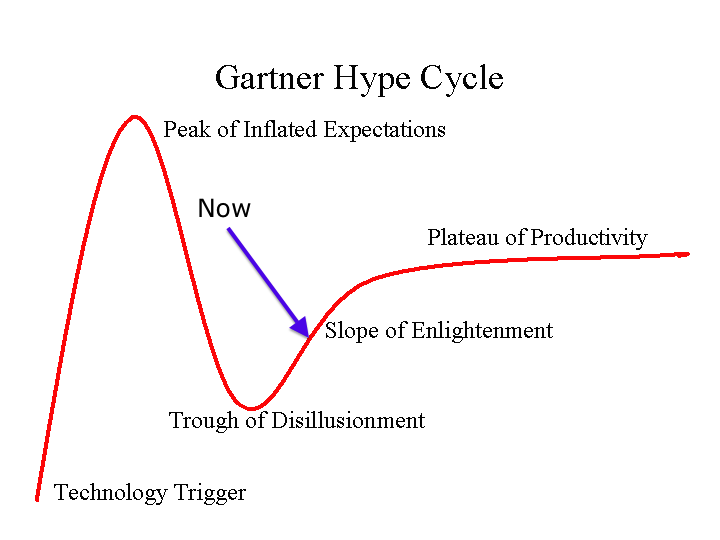
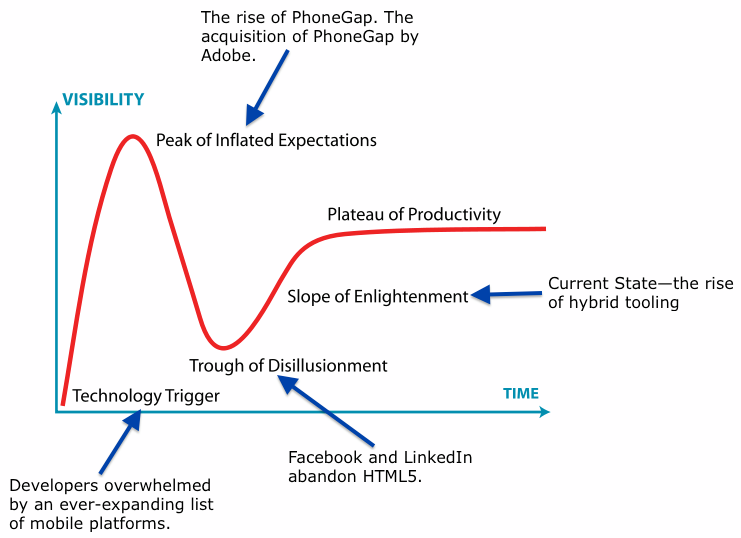
Saving off progress.

Changed region(s): [[0.0, 0.0, 1.0, 1.0], [0.3972, 0.4461, 0.4278, 0.4758]]

diff --git a/index.html b/index.html
@@ -36,6 +36,42 @@
 	<img src="img/telerik-logo.png" style="height: 100px;">
 </script></section>
 
+<section>
+	<blockquote><p>"The full Safari engine is inside of iPhone. And so, you can write amazing Web 2.0 and Ajax apps that look exactly and behave exactly like apps on the iPhone. And these apps can integrate perfectly with iPhone services."</p></blockquote>
+	<div class="fragment">
+		<p>Steve Jobs, 2007</p>
+		<a href="http://www.cultofmac.com/125180/steve-jobs-was-originally-dead-set-against-third-party-apps-for-the-iphone">(source)</a>
+	</div>
+</section>
+
+<section>
+	<h3>iOS 1 had no app store.</h3>
+</section>
+
+<section>
+	<h2>iOS 2 did. It worked out alright.</h2>
+	<img src="img/app-store-growth.png" style="max-height: 500px;">
+	<a href="http://www.businessinsider.com/chart-of-the-day-apple-app-store-revenues-2013-6">http://www.businessinsider.com/chart-of-the-day-apple-app-store-revenues-2013-6</a>
+</section>
+
+<section>
+	<img src="img/app-store-headlines.png">
+	<a href="http://www.apple.com/pr/library/2014/01/07App-Store-Sales-Top-10-Billion-in-2013.html?sr=hotnews.rss">http://www.apple.com/pr/library/2014/01/07App-Store-Sales-Top-10-Billion-in-2013.html?sr=hotnews.rss</a>
+</section>
+
+<section>
+	<h3 style="line-height: 1.2">In 2013, the iOS App Store revenue was higher than the GDP of 60 countries.</h3>
+</section>
+
+<section>
+	<h2>Others had similiar ideas</h2>
+	<img style="max-height: 200px;" src="img/google-play.jpg">
+	<img style="max-height: 200px;" src="img/blackberry-app-world.jpg">
+	<br>
+	<img style="max-height: 200px;" src="img/windows-store.jpg">
+	<img style="max-height: 200px;" src="img/amazon.jpg">
+</section>
+
 <section data-markdown><script type="text/template">
 	## Gartner Hype Cycle
 	<img src="img/gartner-hype-cycle.png" style="height: 400px;">
@@ -44,11 +80,24 @@
 </script></section>
 
 <section>
+	<h2>Hybrid</h2>
+	<img src="img/gartner-hype-cycle-now.png">
+</section>
+
+<section>
+	<h2>PhoneGap</h2>
+	<img src="img/phonegap-logo.png">
+</section>
+
+<section>
+	<img src="img/happy.gif">
+</section>
+
+<section>
 	<img src="img/gartner-hype-cycle-now.png">
 </section>
 
 <section data-markdown><script type="text/template">
-	## Trough of Disillusionment
 	> "the biggest mistake that we made, as a company, is betting too much on HTML5 as opposed to native"
 
 	*Mark Zuckerberg, 2012*
@@ -60,21 +109,27 @@
 </script></section>
 
 <section>
-	<h3>Web View Performance</h3>
-	<ul class="spaced">
-		<li>Hybrid performance is tied to the platform it runs on.</li>
-		<li>Android 4.4 finally utilizes a Chromium-based web view.</li>
-		<li>In iOS7 UIWebViews still have a 4x performance penalty <a href="http://iao.fi/myposts/uiwebview">(source)</a>.</li>
-	</ul>
+	<h2>Why?</h2>
 </section>
 
-<section data-markdown><script type="text/template">
-	<h2>LinkedIn'<!--'-->s Needs</h2>
+<section>
+	<blockquote>“The lack of <b>tooling</b> in mobile browsers makes it very difficult to dig down and find out what the real issues are. Hence <b>tooling</b>, or rather, lack-thereof is a key issue.”</blockquote>
+	<p>Tobie Langel, Facebook Engineer, <a href="http://lists.w3.org/Archives/Public/public-coremob/2012Sep/0021.html">September 2012</a></p>
+</section>
 
-	> [t]ooling support — having a debugger that actually works, performance tools that tell you where the memory is running out.
+<section>
+	<blockquote>"[t]ooling support — having a debugger that actually works, performance tools that tell you where the memory is running out."</blockquote>
+	<p>Kiran Prasad, LinkedIn senior director of mobile engineering, <a href="http://venturebeat.com/2013/04/17/linkedin-mobile-web-breakup">April 2013</a>
+</section>
 
-	Source <http://venturebeat.com/2013/04/17/linkedin-mobile-web-breakup/>
-</script></section>
+<section>
+	<blockquote>"Our research on HTML5 vs native apps in Q3 2013 showed that the key issue in HTML5 development, is not performance or API reach, but the lack of mature development tools."</blockquote>
+	<a href="http://www.visionmobile.com/product/developer-economics-q1-2014-state-developer-nation/">Vision Mobile, 2014 Developer Economics Q1 survey</a>
+</section>
+
+<section>
+	<img src="img/gartner-hype-cycle-now.png">
+</section>
 
 <section data-markdown><script type="text/template">
 	## An explosion of tooling
@@ -86,6 +141,14 @@
 	<img src="img/mobile-market-tweet.png"><br>
 	<https://twitter.com/BenedictEvans/status/450495875211472896>
 </script></section>
+
+<section>
+	<img src="img/analyst-graph.png">
+</section>
+
+<section>
+	<img src="img/rain-money.gif">
+</section>
 
 <section data-markdown><script type="text/template">
 	## My Job
@@ -105,11 +168,8 @@
 </script></section>
 
 <section>
-	<h2>Kendo UI Mobile</h2>
-	<img src="img/kendo-ui.png" style="max-height: 500px;">
-	<p class="fragment">
-		Now free and open source as part of <a href="https://github.com/telerik/kendo-ui-core">Kendo UI Core</a>.
-	</p>
+	<h2>Ionic</h2>
+	<img class="fragment" src="img/dialga.png">
 </section>
 
 <section>
@@ -118,7 +178,24 @@
 </section>
 
 <section>
-	<h2>Remote Debugging</h2>
+	<h3 style="line-height: 1.2;">Tooling improvement #1:<br>UI frameworks</h3>
+</section>
+
+<section>
+	<h2>Kendo UI Mobile</h2>
+	<img src="img/kendo-ui.png" style="max-height: 500px;">
+	<p class="fragment">
+		Now free and open source as part of <a href="https://github.com/telerik/kendo-ui-core">Kendo UI Core</a>.
+	</p>
+</section>
+
+<section>
+	<h2>Demo</h2>
+	<a href="http://cuteness.io">cuteness.io</a>
+</section>
+
+<section>
+	<h3 style="line-height: 1.2">Tooling improvement #2:<br>remote debugging</h3>
 </section>
 
 <section>
@@ -164,7 +241,27 @@
 </section>
 
 <section>
-	<h2>Cloud-Based Builds</h2>
+	<h3>Tooling improvement #3: Companion Apps</h3>
+	<img src="img/telerik-companion-app.png">
+	<img src="img/phonegap-developer-app.png">
+</section>
+
+<section>
+	<h2>Demo</h2>
+</section>
+
+<section>
+	<h2>PhoneGap Developer App</h2>
+	<img src="img/phonegap-multiple-apps.gif">
+</section>
+
+<section>
+	<h2>Telerik AppBuilder</h2>
+	<img src="img/appbuilder-companion-multiple.gif">
+</section>
+
+<section>
+	<h3>Tooling improvement #4: Cloud-Based Builds</h3>
 	<img src="img/clouds.png">
 </section>
 
@@ -178,7 +275,7 @@
 </section>
 
 <section>
-	<h2>Cordova Plugins</h2>
+	<h2>Tooling improvement #5: Cordova Plugins</h2>
 	<img src="img/cordova-plugins.png" style="max-height: 500px;"><br>
 	<a href="http://plugins.cordova.io/">http://plugins.cordova.io/</a>
 </section>
@@ -188,7 +285,7 @@
 </section>
 
 <section>
-	<h2>Backend Services</h2>
+	<h2>Tooling improvement #6: Backend Services</h2>
 	<img src="img/backend-services.png">
 </section>
 
@@ -203,6 +300,19 @@
 </section>
 
 <section>
+	<h2>Performance</h2>
+</section>
+
+<section>
+	<h3>Web View Performance</h3>
+	<ul class="spaced">
+		<li>Hybrid performance is tied to the platform it runs on.</li>
+		<li>Android 4.4 finally utilizes a Chromium-based web view.</li>
+		<li>In iOS7 UIWebViews still have a 4x performance penalty <a href="http://iao.fi/myposts/uiwebview">(source)</a>.</li>
+	</ul>
+</section>
+
+<section>
 	<h2>The future</h2>
 </section>
 
@@ -210,6 +320,20 @@
 	<h2>Mix and match?</h2>
 	<img src="img/smashing.png"><br>
 	<a href="http://mobile.smashingmagazine.com/2013/10/17/best-of-both-worlds-mixing-html5-native-code/">http://mobile.smashingmagazine.com/2013/10/17/best-of-both-worlds-mixing-html5-native-code/</a>
+</section>
+
+<section>
+	<h2>iTunes</h2>
+	<img src="img/itunes-display.jpg">
+</section>
+
+<section>
+	<h3>Is the hybrid development growing or shrinking?</h3>
+</section>
+
+<section>
+	<h2>trends.google.com: PhoneGap</h2>
+	<img src="img/phonegap-trend.png">
 </section>
 
 <section data-markdown><script type="text/template">
